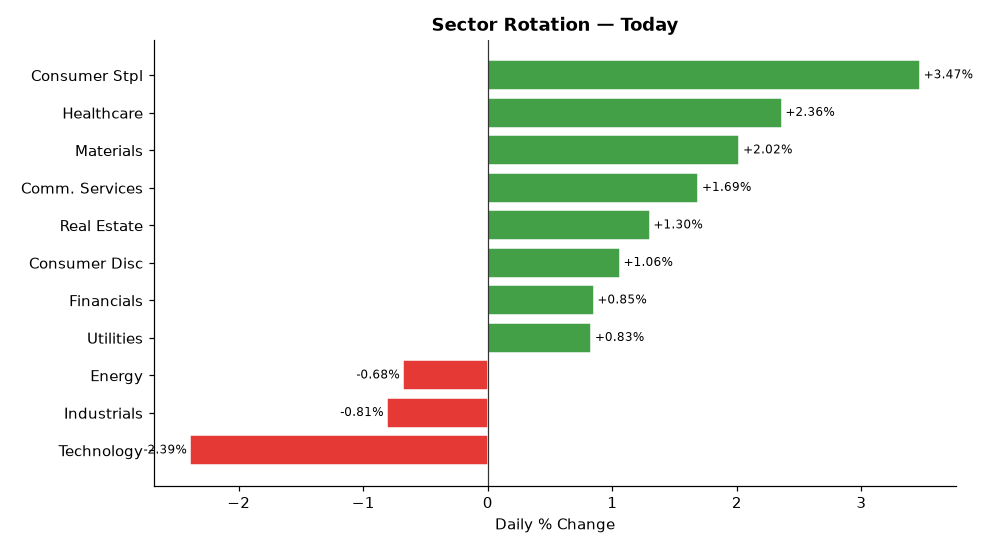
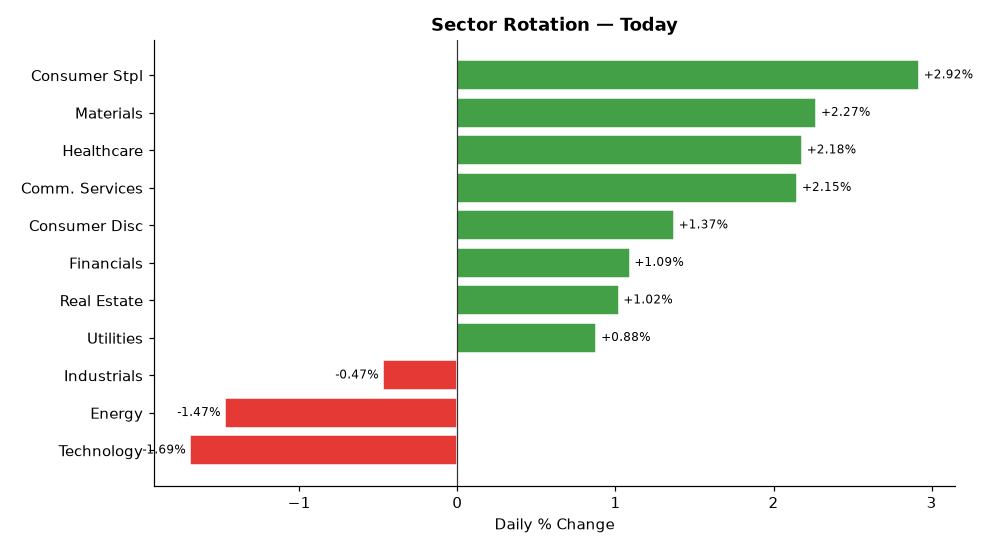
deploy: b7fadf5b06deb90e7ebb92f278722414bdd9750d

diff --git a/index.html b/index.html
@@ -4,7 +4,7 @@
   <meta charset="UTF-8">
   <meta name="viewport" content="width=device-width,initial-scale=1">
   <meta http-equiv="Cache-Control" content="no-cache,no-store,must-revalidate">
-  <title>Stock Breakout Screener — 2026-07-28 15:16</title>
+  <title>Stock Breakout Screener — 2026-07-28 15:41</title>
   <style>
     *{box-sizing:border-box;margin:0;padding:0}
     body{font-family:'Segoe UI',Arial,sans-serif;background:#f0f2f5;
@@ -34,20 +34,20 @@
 
 <div class="hdr">
   <h1>📈 Stock Breakout Screener</h1>
-  <p>Updated: 2026-07-28 15:16 UTC &nbsp;·&nbsp; Phase: Regular Market Hours &nbsp;·&nbsp;
+  <p>Updated: 2026-07-28 15:41 UTC &nbsp;·&nbsp; Phase: Regular Market Hours &nbsp;·&nbsp;
      129 stocks screened &nbsp;·&nbsp; Top 5 by conviction score</p>
 </div>
 
 <div class="card">
   <strong style="font-size:14px">Market Sentiment: 🐻 Bearish</strong>
   <div class="bar-wrap" style="margin-top:10px">
-    <div style="width:1%;background:#43a047"></div>
-    <div style="width:7%;background:#fdd835"></div>
+    <div style="width:0%;background:#43a047"></div>
+    <div style="width:8%;background:#fdd835"></div>
     <div style="width:92%;background:#e53935"></div>
   </div>
   <div style="font-size:12px;color:#555">
-    🟢 Strong 1% &nbsp;
-    🟡 Moderate 7% &nbsp;
+    🟢 Strong 0% &nbsp;
+    🟡 Moderate 8% &nbsp;
     🔴 Weak 92%
   </div>
 </div>
@@ -59,25 +59,8 @@
                     box-shadow:0 2px 6px rgba(0,0,0,.07)">
           <div style="display:flex;align-items:center;gap:10px;
                       flex-wrap:wrap;margin-bottom:10px">
-            <span style="font-size:22px">🟢</span>
-            <span style="font-size:19px;font-weight:700">1. PM</span>
-            <span style="font-size:12px;color:#666">Consumer Stpl</span>
-            <span style="margin-left:auto;background:#1a237e;color:#fff;
-                         padding:3px 12px;border-radius:12px;
-                         font-size:13px;font-weight:600">
-              13/17
-            </span>
-          </div>
-          <ul style="margin:0;padding-left:18px;font-size:13px;
-                     color:#333;line-height:1.8"><li style="margin:5px 0"><span style="background:#ffebee;color:#b71c1c;padding:2px 7px;border-radius:4px;font-size:11px;">❌</span> Volume: <b>0.5× average</b> — Above-average activity</li><li style="margin:5px 0"><span style="background:#e8f5e9;color:#2e7d32;padding:2px 7px;border-radius:4px;font-size:11px;">✅</span> Candle: close <b>$206.62</b> vs open <b>$198.76</b> (+4.0%) — regular market close</li><li style="margin:5px 0"><span style="background:#e8f5e9;color:#2e7d32;padding:2px 7px;border-radius:4px;font-size:11px;">✅</span> 200-Day MA: price <b>$206.62</b> vs MA <b>$175.05</b> — <b>✅ Above</b> long-term trend</li><li style="margin:5px 0"><span style="background:#e8f5e9;color:#2e7d32;padding:2px 7px;border-radius:4px;font-size:11px;">✅</span> Inst. ownership: <b>84.1%</b> · MFI: <b>61.5</b> · Market cap: <b>$322.0B</b></li></ul>
-        </div>
-        <div style="background:#fff;border:1px solid #ddd;border-radius:10px;
-                    padding:16px 20px;margin-bottom:12px;
-                    box-shadow:0 2px 6px rgba(0,0,0,.07)">
-          <div style="display:flex;align-items:center;gap:10px;
-                      flex-wrap:wrap;margin-bottom:10px">
             <span style="font-size:22px">🟡</span>
-            <span style="font-size:19px;font-weight:700">2. PG</span>
+            <span style="font-size:19px;font-weight:700">1. PG</span>
             <span style="font-size:12px;color:#666">Consumer Stpl</span>
             <span style="margin-left:auto;background:#1a237e;color:#fff;
                          padding:3px 12px;border-radius:12px;
@@ -86,7 +69,7 @@
             </span>
           </div>
           <ul style="margin:0;padding-left:18px;font-size:13px;
-                     color:#333;line-height:1.8"><li style="margin:5px 0"><span style="background:#ffebee;color:#b71c1c;padding:2px 7px;border-radius:4px;font-size:11px;">❌</span> Volume: <b>0.3× average</b> — Above-average activity</li><li style="margin:5px 0"><span style="background:#ffebee;color:#b71c1c;padding:2px 7px;border-radius:4px;font-size:11px;">❌</span> Candle: close <b>$152.45</b> vs open <b>$151.50</b> (+0.6%) — regular market close</li><li style="margin:5px 0"><span style="background:#e8f5e9;color:#2e7d32;padding:2px 7px;border-radius:4px;font-size:11px;">✅</span> 200-Day MA: price <b>$152.45</b> vs MA <b>$147.53</b> — <b>✅ Above</b> long-term trend</li><li style="margin:5px 0"><span style="background:#e8f5e9;color:#2e7d32;padding:2px 7px;border-radius:4px;font-size:11px;">✅</span> Inst. ownership: <b>71.8%</b> · MFI: <b>65.1</b> · Market cap: <b>$355.0B</b></li></ul>
+                     color:#333;line-height:1.8"><li style="margin:5px 0"><span style="background:#ffebee;color:#b71c1c;padding:2px 7px;border-radius:4px;font-size:11px;">❌</span> Volume: <b>0.3× average</b> — Above-average activity</li><li style="margin:5px 0"><span style="background:#ffebee;color:#b71c1c;padding:2px 7px;border-radius:4px;font-size:11px;">❌</span> Candle: close <b>$151.76</b> vs open <b>$151.50</b> (+0.2%) — regular market close</li><li style="margin:5px 0"><span style="background:#e8f5e9;color:#2e7d32;padding:2px 7px;border-radius:4px;font-size:11px;">✅</span> 200-Day MA: price <b>$151.76</b> vs MA <b>$147.52</b> — <b>✅ Above</b> long-term trend</li><li style="margin:5px 0"><span style="background:#e8f5e9;color:#2e7d32;padding:2px 7px;border-radius:4px;font-size:11px;">✅</span> Inst. ownership: <b>71.8%</b> · MFI: <b>65.2</b> · Market cap: <b>$353.4B</b></li></ul>
         </div>
         <div style="background:#fff;border:1px solid #ddd;border-radius:10px;
                     padding:16px 20px;margin-bottom:12px;
@@ -94,7 +77,41 @@
           <div style="display:flex;align-items:center;gap:10px;
                       flex-wrap:wrap;margin-bottom:10px">
             <span style="font-size:22px">🟡</span>
-            <span style="font-size:19px;font-weight:700">3. MDLZ</span>
+            <span style="font-size:19px;font-weight:700">2. PM</span>
+            <span style="font-size:12px;color:#666">Consumer Stpl</span>
+            <span style="margin-left:auto;background:#1a237e;color:#fff;
+                         padding:3px 12px;border-radius:12px;
+                         font-size:13px;font-weight:600">
+              11/17
+            </span>
+          </div>
+          <ul style="margin:0;padding-left:18px;font-size:13px;
+                     color:#333;line-height:1.8"><li style="margin:5px 0"><span style="background:#ffebee;color:#b71c1c;padding:2px 7px;border-radius:4px;font-size:11px;">❌</span> Volume: <b>0.6× average</b> — Above-average activity</li><li style="margin:5px 0"><span style="background:#ffebee;color:#b71c1c;padding:2px 7px;border-radius:4px;font-size:11px;">❌</span> Candle: close <b>$203.53</b> vs open <b>$198.76</b> (+2.4%) — regular market close</li><li style="margin:5px 0"><span style="background:#e8f5e9;color:#2e7d32;padding:2px 7px;border-radius:4px;font-size:11px;">✅</span> 200-Day MA: price <b>$203.53</b> vs MA <b>$175.02</b> — <b>✅ Above</b> long-term trend</li><li style="margin:5px 0"><span style="background:#e8f5e9;color:#2e7d32;padding:2px 7px;border-radius:4px;font-size:11px;">✅</span> Inst. ownership: <b>84.1%</b> · MFI: <b>61.7</b> · Market cap: <b>$317.2B</b></li></ul>
+        </div>
+        <div style="background:#fff;border:1px solid #ddd;border-radius:10px;
+                    padding:16px 20px;margin-bottom:12px;
+                    box-shadow:0 2px 6px rgba(0,0,0,.07)">
+          <div style="display:flex;align-items:center;gap:10px;
+                      flex-wrap:wrap;margin-bottom:10px">
+            <span style="font-size:22px">🟡</span>
+            <span style="font-size:19px;font-weight:700">3. AAPL</span>
+            <span style="font-size:12px;color:#666">Technology</span>
+            <span style="margin-left:auto;background:#1a237e;color:#fff;
+                         padding:3px 12px;border-radius:12px;
+                         font-size:13px;font-weight:600">
+              10/17
+            </span>
+          </div>
+          <ul style="margin:0;padding-left:18px;font-size:13px;
+                     color:#333;line-height:1.8"><li style="margin:5px 0"><span style="background:#ffebee;color:#b71c1c;padding:2px 7px;border-radius:4px;font-size:11px;">❌</span> Volume: <b>0.4× average</b> — Above-average activity</li><li style="margin:5px 0"><span style="background:#ffebee;color:#b71c1c;padding:2px 7px;border-radius:4px;font-size:11px;">❌</span> Candle: close <b>$339.56</b> vs open <b>$340.03</b> (-0.1%) — regular market close</li><li style="margin:5px 0"><span style="background:#e8f5e9;color:#2e7d32;padding:2px 7px;border-radius:4px;font-size:11px;">✅</span> 200-Day MA: price <b>$339.56</b> vs MA <b>$282.57</b> — <b>✅ Above</b> long-term trend</li><li style="margin:5px 0"><span style="background:#e8f5e9;color:#2e7d32;padding:2px 7px;border-radius:4px;font-size:11px;">✅</span> Inst. ownership: <b>66.5%</b> · MFI: <b>67.3</b> · Market cap: <b>$4987.7B</b></li><li style="margin:5px 0"><span style="background:#e8f5e9;color:#2e7d32;padding:2px 7px;border-radius:4px;font-size:11px;">✅</span> Last similar breakout: <b>Jun 26, 2026</b> → <b>+11.8%</b> over 10 trading days</li></ul>
+        </div>
+        <div style="background:#fff;border:1px solid #ddd;border-radius:10px;
+                    padding:16px 20px;margin-bottom:12px;
+                    box-shadow:0 2px 6px rgba(0,0,0,.07)">
+          <div style="display:flex;align-items:center;gap:10px;
+                      flex-wrap:wrap;margin-bottom:10px">
+            <span style="font-size:22px">🟡</span>
+            <span style="font-size:19px;font-weight:700">4. MDLZ</span>
             <span style="font-size:12px;color:#666">Consumer Stpl</span>
             <span style="margin-left:auto;background:#1a237e;color:#fff;
                          padding:3px 12px;border-radius:12px;
@@ -103,7 +120,7 @@
             </span>
           </div>
           <ul style="margin:0;padding-left:18px;font-size:13px;
-                     color:#333;line-height:1.8"><li style="margin:5px 0"><span style="background:#ffebee;color:#b71c1c;padding:2px 7px;border-radius:4px;font-size:11px;">❌</span> Volume: <b>0.4× average</b> — Above-average activity</li><li style="margin:5px 0"><span style="background:#ffebee;color:#b71c1c;padding:2px 7px;border-radius:4px;font-size:11px;">❌</span> Candle: close <b>$63.18</b> vs open <b>$62.04</b> (+1.8%) — regular market close</li><li style="margin:5px 0"><span style="background:#e8f5e9;color:#2e7d32;padding:2px 7px;border-radius:4px;font-size:11px;">✅</span> 200-Day MA: price <b>$63.18</b> vs MA <b>$59.07</b> — <b>✅ Above</b> long-term trend</li><li style="margin:5px 0"><span style="background:#e8f5e9;color:#2e7d32;padding:2px 7px;border-radius:4px;font-size:11px;">✅</span> Inst. ownership: <b>91.9%</b> · MFI: <b>51.3</b> · Market cap: <b>$81.1B</b></li></ul>
+                     color:#333;line-height:1.8"><li style="margin:5px 0"><span style="background:#ffebee;color:#b71c1c;padding:2px 7px;border-radius:4px;font-size:11px;">❌</span> Volume: <b>0.4× average</b> — Above-average activity</li><li style="margin:5px 0"><span style="background:#ffebee;color:#b71c1c;padding:2px 7px;border-radius:4px;font-size:11px;">❌</span> Candle: close <b>$62.75</b> vs open <b>$62.04</b> (+1.1%) — regular market close</li><li style="margin:5px 0"><span style="background:#e8f5e9;color:#2e7d32;padding:2px 7px;border-radius:4px;font-size:11px;">✅</span> 200-Day MA: price <b>$62.75</b> vs MA <b>$59.07</b> — <b>✅ Above</b> long-term trend</li><li style="margin:5px 0"><span style="background:#e8f5e9;color:#2e7d32;padding:2px 7px;border-radius:4px;font-size:11px;">✅</span> Inst. ownership: <b>91.9%</b> · MFI: <b>51.5</b> · Market cap: <b>$80.6B</b></li></ul>
         </div>
         <div style="background:#fff;border:1px solid #ddd;border-radius:10px;
                     padding:16px 20px;margin-bottom:12px;
@@ -111,7 +128,7 @@
           <div style="display:flex;align-items:center;gap:10px;
                       flex-wrap:wrap;margin-bottom:10px">
             <span style="font-size:22px">🟡</span>
-            <span style="font-size:19px;font-weight:700">4. GIS</span>
+            <span style="font-size:19px;font-weight:700">5. GIS</span>
             <span style="font-size:12px;color:#666">Consumer Stpl</span>
             <span style="margin-left:auto;background:#1a237e;color:#fff;
                          padding:3px 12px;border-radius:12px;
@@ -120,24 +137,7 @@
             </span>
           </div>
           <ul style="margin:0;padding-left:18px;font-size:13px;
-                     color:#333;line-height:1.8"><li style="margin:5px 0"><span style="background:#ffebee;color:#b71c1c;padding:2px 7px;border-radius:4px;font-size:11px;">❌</span> Volume: <b>0.3× average</b> — Above-average activity</li><li style="margin:5px 0"><span style="background:#ffebee;color:#b71c1c;padding:2px 7px;border-radius:4px;font-size:11px;">❌</span> Candle: close <b>$38.28</b> vs open <b>$37.29</b> (+2.7%) — regular market close</li><li style="margin:5px 0"><span style="background:#e8f5e9;color:#2e7d32;padding:2px 7px;border-radius:4px;font-size:11px;">✅</span> 200-Day MA: price <b>$38.28</b> vs MA <b>$37.03</b> — <b>✅ Above</b> long-term trend</li><li style="margin:5px 0"><span style="background:#e8f5e9;color:#2e7d32;padding:2px 7px;border-radius:4px;font-size:11px;">✅</span> Inst. ownership: <b>91.2%</b> · MFI: <b>51.0</b> · Market cap: <b>$20.4B</b></li></ul>
-        </div>
-        <div style="background:#fff;border:1px solid #ddd;border-radius:10px;
-                    padding:16px 20px;margin-bottom:12px;
-                    box-shadow:0 2px 6px rgba(0,0,0,.07)">
-          <div style="display:flex;align-items:center;gap:10px;
-                      flex-wrap:wrap;margin-bottom:10px">
-            <span style="font-size:22px">🟡</span>
-            <span style="font-size:19px;font-weight:700">5. CL</span>
-            <span style="font-size:12px;color:#666">Consumer Stpl</span>
-            <span style="margin-left:auto;background:#1a237e;color:#fff;
-                         padding:3px 12px;border-radius:12px;
-                         font-size:13px;font-weight:600">
-              10/17
-            </span>
-          </div>
-          <ul style="margin:0;padding-left:18px;font-size:13px;
-                     color:#333;line-height:1.8"><li style="margin:5px 0"><span style="background:#ffebee;color:#b71c1c;padding:2px 7px;border-radius:4px;font-size:11px;">❌</span> Volume: <b>0.2× average</b> — Above-average activity</li><li style="margin:5px 0"><span style="background:#ffebee;color:#b71c1c;padding:2px 7px;border-radius:4px;font-size:11px;">❌</span> Candle: close <b>$94.57</b> vs open <b>$94.11</b> (+0.5%) — regular market close</li><li style="margin:5px 0"><span style="background:#e8f5e9;color:#2e7d32;padding:2px 7px;border-radius:4px;font-size:11px;">✅</span> 200-Day MA: price <b>$94.57</b> vs MA <b>$88.99</b> — <b>✅ Above</b> long-term trend</li><li style="margin:5px 0"><span style="background:#e8f5e9;color:#2e7d32;padding:2px 7px;border-radius:4px;font-size:11px;">✅</span> Inst. ownership: <b>87.9%</b> · MFI: <b>51.4</b> · Market cap: <b>$75.6B</b></li></ul>
+                     color:#333;line-height:1.8"><li style="margin:5px 0"><span style="background:#ffebee;color:#b71c1c;padding:2px 7px;border-radius:4px;font-size:11px;">❌</span> Volume: <b>0.3× average</b> — Above-average activity</li><li style="margin:5px 0"><span style="background:#ffebee;color:#b71c1c;padding:2px 7px;border-radius:4px;font-size:11px;">❌</span> Candle: close <b>$38.08</b> vs open <b>$37.29</b> (+2.1%) — regular market close</li><li style="margin:5px 0"><span style="background:#e8f5e9;color:#2e7d32;padding:2px 7px;border-radius:4px;font-size:11px;">✅</span> 200-Day MA: price <b>$38.08</b> vs MA <b>$37.03</b> — <b>✅ Above</b> long-term trend</li><li style="margin:5px 0"><span style="background:#e8f5e9;color:#2e7d32;padding:2px 7px;border-radius:4px;font-size:11px;">✅</span> Inst. ownership: <b>91.2%</b> · MFI: <b>51.1</b> · Market cap: <b>$20.3B</b></li></ul>
         </div>
 
 
@@ -168,54 +168,72 @@
   
         <tr>
           <td style="font-weight:700;text-align:left;padding-left:10px">
-            🟢 PM</td>
-          <td style="background:#ffcdd2">0.5×</td>
-          <td style="background:#c8e6c9">+4.0%</td>
-          <td style="background:#c8e6c9">
-            ▲ Above</td>
-          <td style="background:#c8e6c9">
-            84.1%</td>
-          <td style="background:#c8e6c9">
-            61.5</td>
-          <td style="background:#c8e6c9">Consumer Stpl</td>
-          <td style="background:#c8e6c9">
-            62.4%</td>
-          <td style="background:#ffcdd2">
-            N/A</td>
-          <td style="font-weight:800;font-size:15px">13/17</td>
-        </tr>
-        <tr>
-          <td style="font-weight:700;text-align:left;padding-left:10px">
             🟡 PG</td>
           <td style="background:#ffcdd2">0.3×</td>
-          <td style="background:#ffcdd2">+0.6%</td>
+          <td style="background:#ffcdd2">+0.2%</td>
           <td style="background:#c8e6c9">
             ▲ Above</td>
           <td style="background:#c8e6c9">
             71.8%</td>
           <td style="background:#c8e6c9">
-            65.1</td>
+            65.2</td>
           <td style="background:#c8e6c9">Consumer Stpl</td>
           <td style="background:#c8e6c9">
-            66.7%</td>
+            73.7%</td>
           <td style="background:#ffcdd2">
             N/A</td>
           <td style="font-weight:800;font-size:15px">11/17</td>
         </tr>
         <tr>
           <td style="font-weight:700;text-align:left;padding-left:10px">
+            🟡 PM</td>
+          <td style="background:#ffcdd2">0.6×</td>
+          <td style="background:#ffcdd2">+2.4%</td>
+          <td style="background:#c8e6c9">
+            ▲ Above</td>
+          <td style="background:#c8e6c9">
+            84.1%</td>
+          <td style="background:#c8e6c9">
+            61.7</td>
+          <td style="background:#c8e6c9">Consumer Stpl</td>
+          <td style="background:#c8e6c9">
+            81.6%</td>
+          <td style="background:#ffcdd2">
+            N/A</td>
+          <td style="font-weight:800;font-size:15px">11/17</td>
+        </tr>
+        <tr>
+          <td style="font-weight:700;text-align:left;padding-left:10px">
+            🟡 AAPL</td>
+          <td style="background:#ffcdd2">0.4×</td>
+          <td style="background:#ffcdd2">-0.1%</td>
+          <td style="background:#c8e6c9">
+            ▲ Above</td>
+          <td style="background:#c8e6c9">
+            66.5%</td>
+          <td style="background:#c8e6c9">
+            67.3</td>
+          <td style="background:#ffcdd2">Technology</td>
+          <td style="background:#c8e6c9">
+            110.8%</td>
+          <td style="background:#c8e6c9">
+            +11.8%</td>
+          <td style="font-weight:800;font-size:15px">10/17</td>
+        </tr>
+        <tr>
+          <td style="font-weight:700;text-align:left;padding-left:10px">
             🟡 MDLZ</td>
           <td style="background:#ffcdd2">0.4×</td>
-          <td style="background:#ffcdd2">+1.8%</td>
+          <td style="background:#ffcdd2">+1.1%</td>
           <td style="background:#c8e6c9">
             ▲ Above</td>
           <td style="background:#c8e6c9">
             91.9%</td>
           <td style="background:#fff9c4">
-            51.3</td>
+            51.5</td>
           <td style="background:#c8e6c9">Consumer Stpl</td>
           <td style="background:#c8e6c9">
-            107.3%</td>
+            94.9%</td>
           <td style="background:#ffcdd2">
             N/A</td>
           <td style="font-weight:800;font-size:15px">10/17</td>
@@ -224,34 +242,16 @@
           <td style="font-weight:700;text-align:left;padding-left:10px">
             🟡 GIS</td>
           <td style="background:#ffcdd2">0.3×</td>
-          <td style="background:#ffcdd2">+2.7%</td>
+          <td style="background:#ffcdd2">+2.1%</td>
           <td style="background:#c8e6c9">
             ▲ Above</td>
           <td style="background:#c8e6c9">
             91.2%</td>
           <td style="background:#fff9c4">
-            51.0</td>
+            51.1</td>
           <td style="background:#c8e6c9">Consumer Stpl</td>
           <td style="background:#c8e6c9">
-            83.3%</td>
-          <td style="background:#ffcdd2">
-            N/A</td>
-          <td style="font-weight:800;font-size:15px">10/17</td>
-        </tr>
-        <tr>
-          <td style="font-weight:700;text-align:left;padding-left:10px">
-            🟡 CL</td>
-          <td style="background:#ffcdd2">0.2×</td>
-          <td style="background:#ffcdd2">+0.5%</td>
-          <td style="background:#c8e6c9">
-            ▲ Above</td>
-          <td style="background:#c8e6c9">
-            87.9%</td>
-          <td style="background:#fff9c4">
-            51.4</td>
-          <td style="background:#c8e6c9">Consumer Stpl</td>
-          <td style="background:#c8e6c9">
-            67.2%</td>
+            83.5%</td>
           <td style="background:#ffcdd2">
             N/A</td>
           <td style="font-weight:800;font-size:15px">10/17</td>
@@ -278,57 +278,57 @@
         <tr>
           <td style="text-align:left;padding-left:10px;font-weight:600">
             #1 Consumer Stpl</td>
-          <td style="background:#e8f5e9;color:#2e7d32;font-weight:700">+3.47%</td>
+          <td style="background:#e8f5e9;color:#2e7d32;font-weight:700">+2.92%</td>
         </tr>
         <tr>
           <td style="text-align:left;padding-left:10px;font-weight:600">
-            #2 Healthcare</td>
-          <td style="background:#e8f5e9;color:#2e7d32;font-weight:700">+2.36%</td>
+            #2 Materials</td>
+          <td style="background:#e8f5e9;color:#2e7d32;font-weight:700">+2.27%</td>
         </tr>
         <tr>
           <td style="text-align:left;padding-left:10px;font-weight:600">
-            #3 Materials</td>
-          <td style="background:#e8f5e9;color:#2e7d32;font-weight:700">+2.02%</td>
+            #3 Healthcare</td>
+          <td style="background:#e8f5e9;color:#2e7d32;font-weight:700">+2.18%</td>
         </tr>
         <tr>
           <td style="text-align:left;padding-left:10px;font-weight:600">
             #4 Comm. Services</td>
-          <td style="background:#e8f5e9;color:#2e7d32;font-weight:700">+1.69%</td>
+          <td style="background:#e8f5e9;color:#2e7d32;font-weight:700">+2.15%</td>
         </tr>
         <tr>
           <td style="text-align:left;padding-left:10px;font-weight:600">
-            #5 Real Estate</td>
-          <td style="background:#e8f5e9;color:#2e7d32;font-weight:700">+1.30%</td>
+            #5 Consumer Disc</td>
+          <td style="background:#e8f5e9;color:#2e7d32;font-weight:700">+1.37%</td>
         </tr>
         <tr>
           <td style="text-align:left;padding-left:10px;font-weight:600">
-            #6 Consumer Disc</td>
-          <td style="background:#e8f5e9;color:#2e7d32;font-weight:700">+1.06%</td>
+            #6 Financials</td>
+          <td style="background:#e8f5e9;color:#2e7d32;font-weight:700">+1.09%</td>
         </tr>
         <tr>
           <td style="text-align:left;padding-left:10px;font-weight:600">
-            #7 Financials</td>
-          <td style="background:#e8f5e9;color:#2e7d32;font-weight:700">+0.85%</td>
+            #7 Real Estate</td>
+          <td style="background:#e8f5e9;color:#2e7d32;font-weight:700">+1.02%</td>
         </tr>
         <tr>
           <td style="text-align:left;padding-left:10px;font-weight:600">
             #8 Utilities</td>
-          <td style="background:#e8f5e9;color:#2e7d32;font-weight:700">+0.83%</td>
+          <td style="background:#e8f5e9;color:#2e7d32;font-weight:700">+0.88%</td>
         </tr>
         <tr>
           <td style="text-align:left;padding-left:10px;font-weight:600">
-            #9 Energy</td>
-          <td style="background:#ffebee;color:#c62828;font-weight:700">-0.68%</td>
+            #9 Industrials</td>
+          <td style="background:#ffebee;color:#c62828;font-weight:700">-0.47%</td>
         </tr>
         <tr>
           <td style="text-align:left;padding-left:10px;font-weight:600">
-            #10 Industrials</td>
-          <td style="background:#ffebee;color:#c62828;font-weight:700">-0.81%</td>
+            #10 Energy</td>
+          <td style="background:#ffebee;color:#c62828;font-weight:700">-1.47%</td>
         </tr>
         <tr>
           <td style="text-align:left;padding-left:10px;font-weight:600">
             #11 Technology</td>
-          <td style="background:#ffebee;color:#c62828;font-weight:700">-2.39%</td>
+          <td style="background:#ffebee;color:#c62828;font-weight:700">-1.69%</td>
         </tr>
     </table>
   </div>
@@ -367,7 +367,7 @@
         <li><b>Scoring weights:</b>
             Inst.Own(3) · Sector(3) · Volume(2) · Breakout(2) ·
             MA200(2) · MFI(2) · History(2) · IV(1) = 17pts max</li>
-        <li><b>Run time:</b> 2026-07-28 15:16 UTC — Market phase: Regular Market Hours</li>
+        <li><b>Run time:</b> 2026-07-28 15:41 UTC — Market phase: Regular Market Hours</li>
       </ul>
     </div>
 
